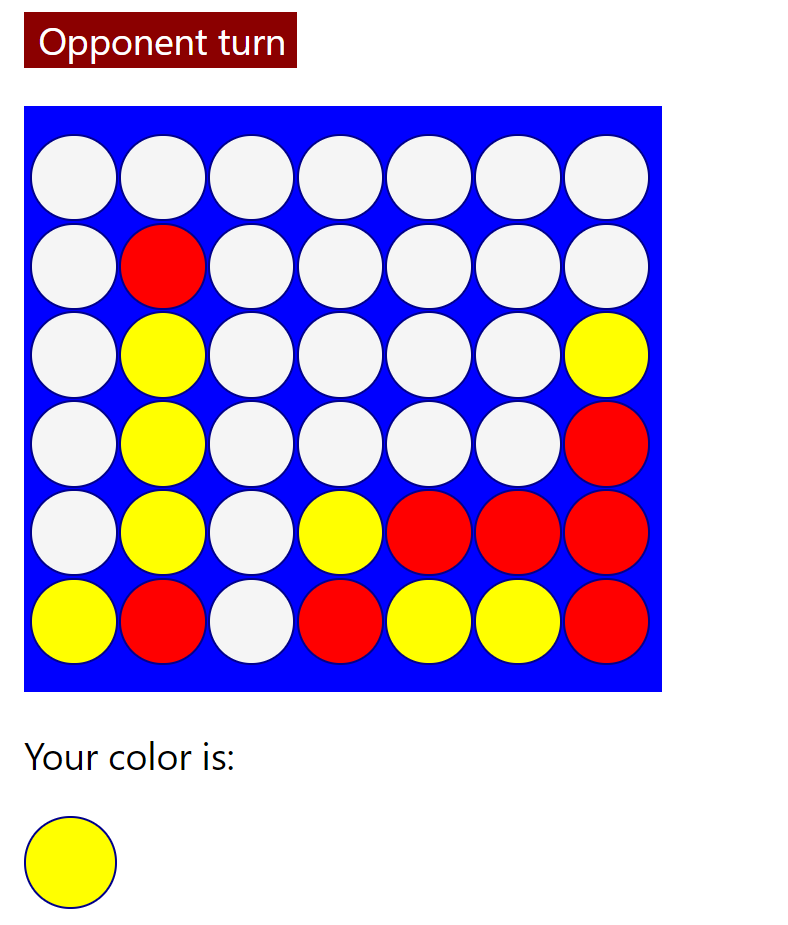
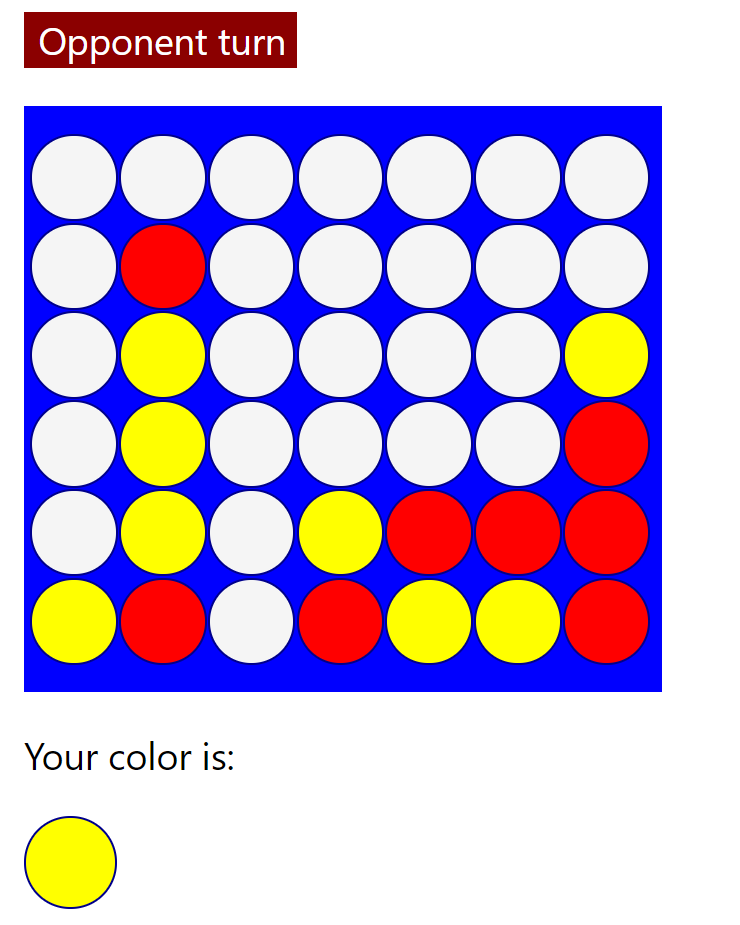
readme update

diff --git a/README.md b/README.md
@@ -54,16 +54,16 @@ Cliccando sul tasto play, all'utente viene mostrato il proprio peer ID e gli vie
 Una volta collegati, ai due giocatori si aprirà la pagina di gioco vera e propria.
 
 <div style="display: flex;">
-    <img src="./public/your_turn.png" alt="Pagina di Gioco turno del giocatore" style="width: 40%;height:500px">
-    <img src="./public/opponent_turn.png" alt="Pagina di Gioco turno dell'Avversario" style="width: 40%;height:500px">
+    <img src="./public/your_turn.png" alt="Pagina di Gioco turno del giocatore" style="width: 40%;">
+    <img src="./public/opponent_turn.png" alt="Pagina di Gioco turno dell'Avversario" style="width: 40%;">
 </div>
 <br>
 
 Nel caso in cui si verifichi la vittoria o la sconfitta di un giocatore, questa verrà notificata tramite un popup.
 
 <div style="display: flex;">
-    <img src="./public/victory.png" alt="Pagina di Vittoria" style="width: 40%;height:160px">
-    <img src="./public/defeat.png" alt="Pagina di Sconfitta" style="width: 40%;height:160px">
+    <img src="./public/victory.png" alt="Pagina di Vittoria" style="width: 40%;">
+    <img src="./public/defeat.png" alt="Pagina di Sconfitta" style="width: 40%;">
 </div>
 <br>
 
